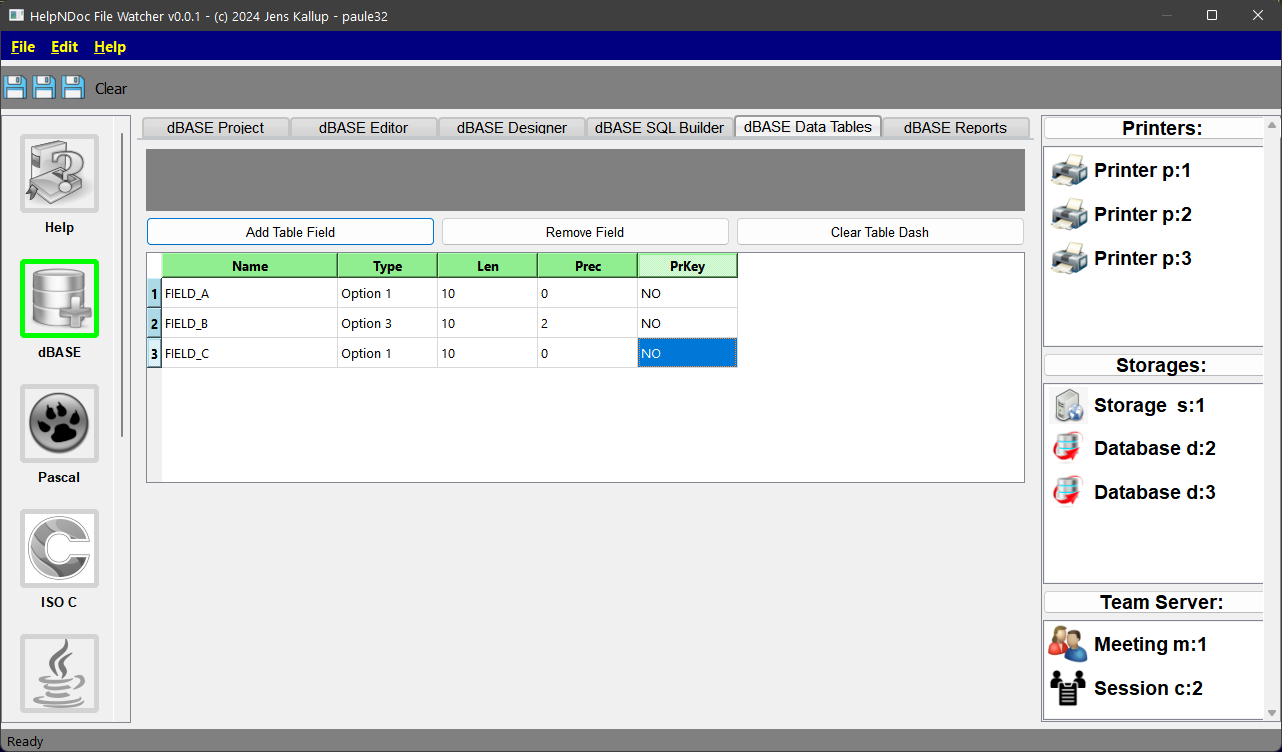
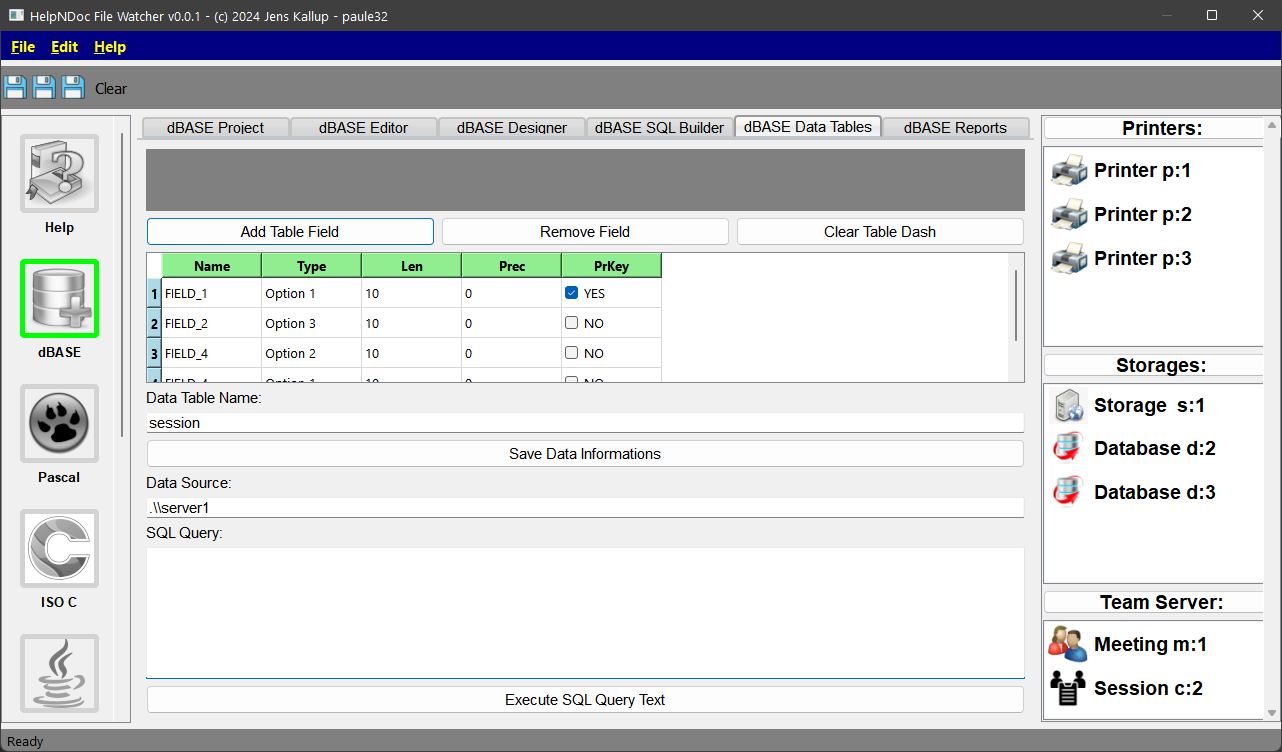
update

diff --git a/src/observer.py b/src/observer.py
@@ -3058,6 +3058,19 @@ class c64Bildschirm(QWidget):
             line += 11
         self.painter.end()
 
+class addDataSourceDialog(QDialog):
+    def __init__(self, parent):
+        super().__init__()
+        self.setWindowTitle("Add Data Source...")
+        self.setMaximumWidth (600)
+        self.setMinimumWidth (400)
+        #
+        self.setMaximumHeight(600)
+        self.setMaximumHeight(400)
+        
+        font = QFont("Arial", 10)
+        self.setFont(font)
+        
 class myAddTableDialog(QDialog):
     def __init__(self, parent):
         super().__init__()
@@ -3066,7 +3079,7 @@ class myAddTableDialog(QDialog):
         self.setMinimumWidth (400)
         #
         self.setMaximumHeight(600)
-        self.setMaximumHeight(600)
+        self.setMaximumHeight(400)
         
         font = QFont("Arial", 10)
         self.setFont(font)
@@ -3143,7 +3156,7 @@ class myAddTableDialog(QDialog):
         local_sqlite_item = QListWidgetItem("Local Data Files:")
         local_sqlite_item.setFlags(local_sqlite_item.flags() & ~Qt.ItemIsSelectable) # non-selectable
         local_sqlite_item.setBackground(QBrush(QColor("blue")))
-        local_sqlite_item.setForeground(QBrush(QColor("white")))        
+        local_sqlite_item.setForeground(QBrush(QColor("white")))
         local_sqlite_item.setFont(self.font1)
         
         self.tbl_av_tables.addItem(local_sqlite_item)
@@ -3193,7 +3206,8 @@ class myAddTableDialog(QDialog):
         return
     
     def btn_addsrc_clicked(self):
-        print("source")
+        datadialog = addDataSourceDialog(self)
+        datadialog.exec_()
         return
     
     def btn_close_clicked(self):
@@ -3246,7 +3260,12 @@ class myDataTabWidget(QWidget):
             check_box = editor.findChild(QCheckBox)
             if check_box:
                 value = index.model().data(index, Qt.EditRole)
-                check_box.setChecked(value == "YES")
+                if value == "YES":
+                    check_box.setChecked(True)
+                    check_box.setText("YES")
+                else:
+                    check_box.setChecked(False)
+                    check_box.setText("NO")
         
         def setModelData(self, editor, model, index):
             check_box = editor.findChild(QCheckBox)
@@ -3273,7 +3292,7 @@ class myDataTabWidget(QWidget):
         #self.vlayout.addStretch()
         
         ###
-        font = QFont("Arial", 10)
+        font = QFont("Arial", 11)
         
         self.table_btn_add      = QPushButton("Add Table Field")
         self.table_btn_remove   = QPushButton("Remove Field")
@@ -3292,9 +3311,13 @@ class myDataTabWidget(QWidget):
         self.hlayout.addWidget(self.table_btn_remove)
         self.hlayout.addWidget(self.table_btn_clearall)
         
+        self.table_btn_add     .clicked.connect(self.table_btn_add_clicked)
+        self.table_btn_remove  .clicked.connect(self.table_btn_remove_clicked)
+        self.table_btn_clearall.clicked.connect(self.table_btn_clearall_clicked)
+        
         ###
         self.rlayout = QHBoxLayout()
-        self.table_widget = QTableWidget(3,5)
+        self.table_widget = QTableWidget(0,5)
         self.table_widget.setHorizontalHeaderLabels(["Name","Type","Len","Prec","PrKey"])
         
         horizontal_header = self.table_widget.horizontalHeader()
@@ -3313,6 +3336,7 @@ class myDataTabWidget(QWidget):
         # Delegate für die zweite Spalte setzen
         self.combo_box_delegate = self.ComboBoxDelegate(self.combo_items, self.table_widget)
         self.table_widget.setItemDelegateForColumn(1, self.combo_box_delegate)
+        self.table_widget.itemChanged.connect(self.check_if_checkbox_clicked)
         
         # Delegate für die dritte Spalte setzen
         self.check_box_delegate = self.CheckBoxDelegate(self.table_widget)
@@ -3321,11 +3345,90 @@ class myDataTabWidget(QWidget):
         
         self.rlayout.addWidget(self.table_widget)
         
+        self.lbl_table = QLabel("Data Table Name:")
+        self.lbl_table.setFont(font)
+        #
+        self.edt_table = QLineEdit("session")
+        self.edt_table.setFont(font)
+        #
+        self.edt_button = QPushButton("Save Data Informations")
+        self.edt_button.setFont(font)
+        self.edt_button.setMinimumHeight(29)
+        ###
+        #
+        self.lbl_source = QLabel("Data Source:")
+        self.lbl_source.setFont(font)
+        #
+        self.edt_source = QLineEdit(".\\\\server1")
+        self.edt_source.setFont(font)
+        
         self.vlayout.addLayout(self.hlayout)
         self.vlayout.addLayout(self.rlayout)
+        
+        self.vlayout.addWidget(self.lbl_table)
+        self.vlayout.addWidget(self.edt_table)
+        self.vlayout.addWidget(self.edt_button)
+        #
+        self.vlayout.addWidget(self.lbl_source)
+        self.vlayout.addWidget(self.edt_source)
+        ###
+        
+        self.sql_label    = QLabel("SQL Query:")
+        self.sql_window   = QPlainTextEdit()
+        self.sql_exec_btn = QPushButton("Execute SQL Query Text")
+        
+        self.sql_label.setFont(font)
+        #
+        self.sql_exec_btn.setMinimumHeight(29)
+        self.sql_exec_btn.setFont(font)
+        
+        self.vlayout.addWidget(self.sql_label)
+        self.vlayout.addWidget(self.sql_window)
+        self.vlayout.addWidget(self.sql_exec_btn)
+        
         self.vlayout.addStretch()
-                
         self.setLayout(self.vlayout)
+    
+    def add_row(self, table_widget):
+        row_position = table_widget.rowCount()
+        table_widget.insertRow(row_position)
+        
+        for col in range(table_widget.columnCount()):
+            item = QTableWidgetItem()
+            if col == 4:
+                item.setFlags(Qt.ItemIsUserCheckable | Qt.ItemIsEnabled)
+                item.setCheckState(Qt.Unchecked)
+                item.setText("NO")
+            elif col == 0:
+                item.setText(f"FIELD_{row_position+1}")
+            elif col == 1:
+                item.setText("Option 1")
+            elif col == 2:
+                item.setText("10")
+            elif col == 3:
+                item.setText("0")
+            table_widget.setItem(row_position, col, item)
+    
+    def check_if_checkbox_clicked(self,item):
+        if item.column() == 4:  # Überprüfen, ob die Spalte die CheckBox-Spalte ist
+            if item.checkState() == Qt.Checked:
+                item.setText("YES")
+            else:
+                item.setText("NO")
+        
+    def del_row(self, table_widget):
+        current_row = table_widget.currentRow()
+        if current_row != -1:
+            table_widget.removeRow(current_row)
+    
+    def table_btn_add_clicked(self):
+        self.add_row(self.table_widget)
+        
+    def table_btn_remove_clicked(self):
+        self.del_row(self.table_widget)
+    
+    def table_btn_clearall_clicked(self):
+        print("clr all")
 
 class FileWatcherGUI(QDialog):
     def __init__(self):
@@ -4487,6 +4590,7 @@ class FileWatcherGUI(QDialog):
         self.dbase_builder_layout.addLayout(self.db_hlayout)
         #
         self.dbase_builder_btn1.clicked.connect(self.dbase_builder_btn1_clicked)
+        self.dbase_builder_btn2.clicked.connect(self.dbase_builder_btn2_clicked)
         
         self.dbase_builder_layout.addWidget(self.dbase_builder_widget_view)
         self.dbase_builder_layout.addWidget(self.dbase_builder_widget_join)
@@ -4574,6 +4678,10 @@ class FileWatcherGUI(QDialog):
     def dbase_builder_btn1_clicked(self):
         tableDialog = myAddTableDialog(self)
         tableDialog.exec_()
+    
+    def dbase_builder_btn2_clicked(self):
+        sourceDialog = addDataSourceDialog(self)
+        sourceDialog.exec_()
     
     # pascal
     def handlePascal(self):
